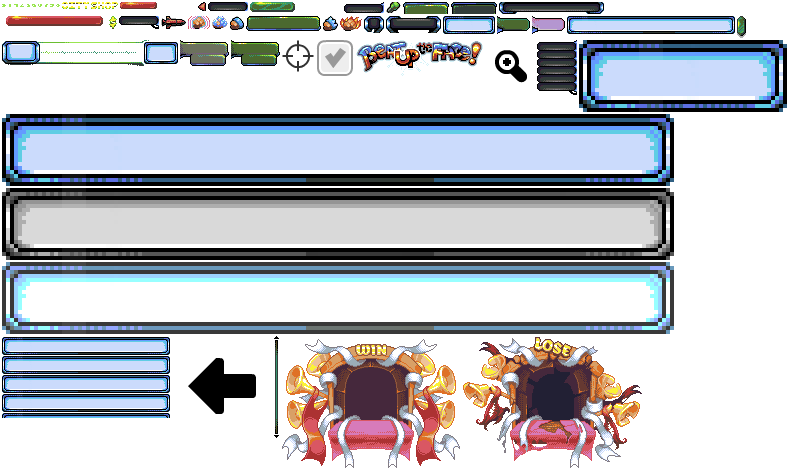
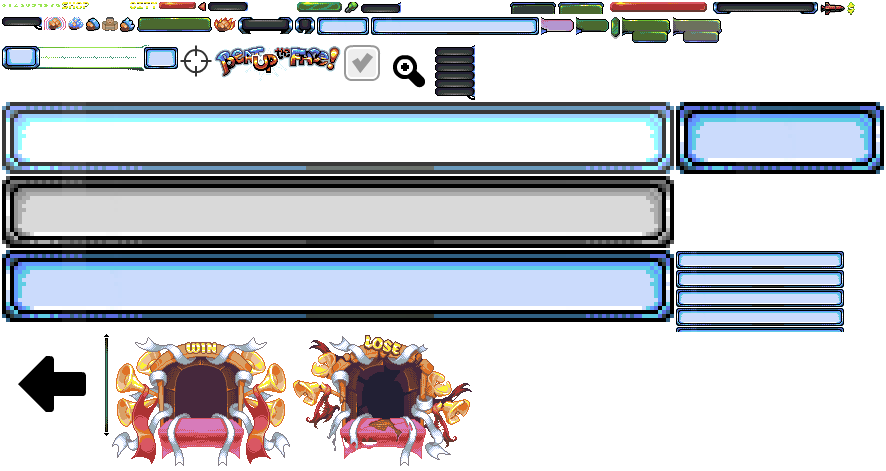
add image and name for harvesters

diff --git a/Classes/NuMenu.cpp b/Classes/NuMenu.cpp
@@ -295,13 +295,15 @@ void BuildingNuMenu::init_items()
     auto scrollview = this->scrollable;
     this->create_inventory_item(scrollview);
 
+    //buy an auto harvester button
     auto menu_item = ShopNuItem::create();
     menu_item->my_init(this->beatup, scrollview, "harvester_buy");
     menu_item->_shop_cost = 25;
     menu_item->set_cost_lbl("25");
 
-    menu_item->set_title(building->name);
+    menu_item->set_title("Jamal");
     menu_item->set_description("Buy Auto-Harvester");
+    menu_item->set_image("harvester.png");
     menu_item->set_touch_ended_callback([this, menu_item]()
     {
         auto cost = menu_item->get_cost();
@@ -319,6 +321,7 @@ void BuildingNuMenu::init_items()
         }
     });
 
+    //target building to punch
     auto target_item = NuItem::create();
     target_item->my_init(this->beatup, scrollview);
 
